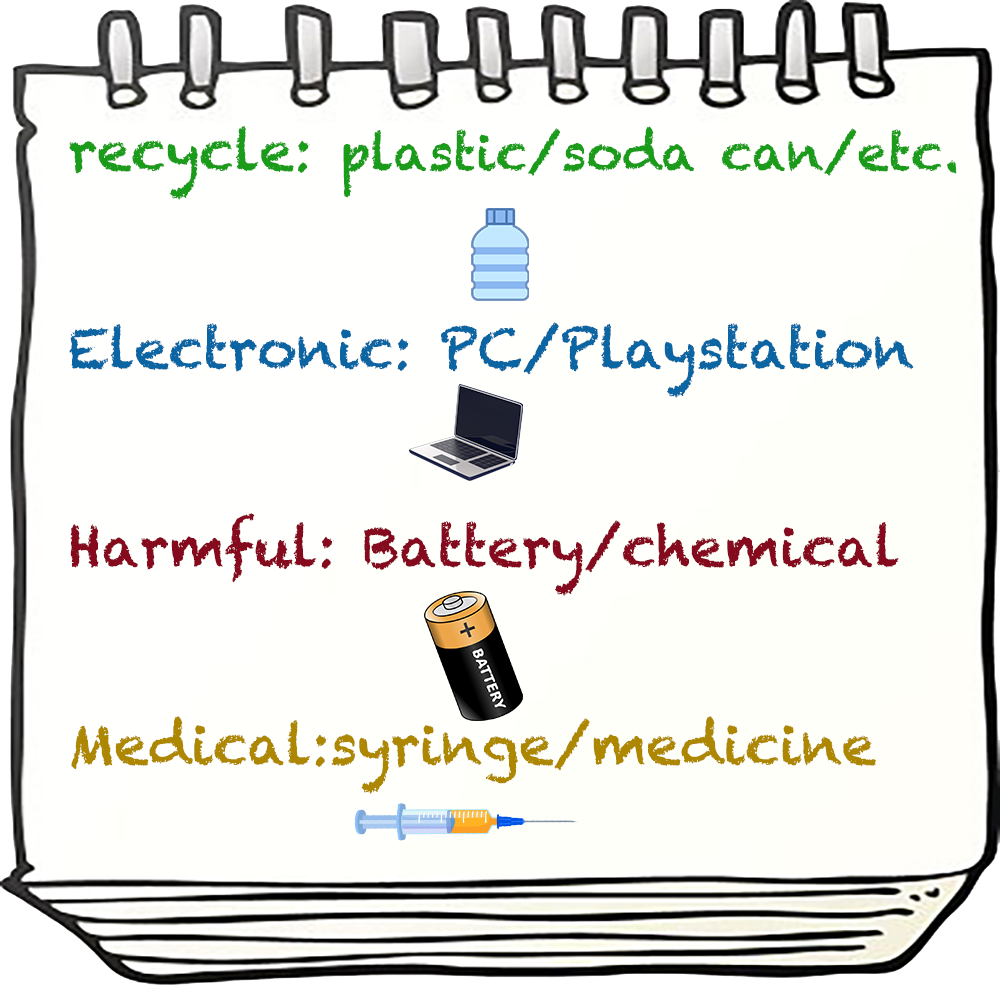
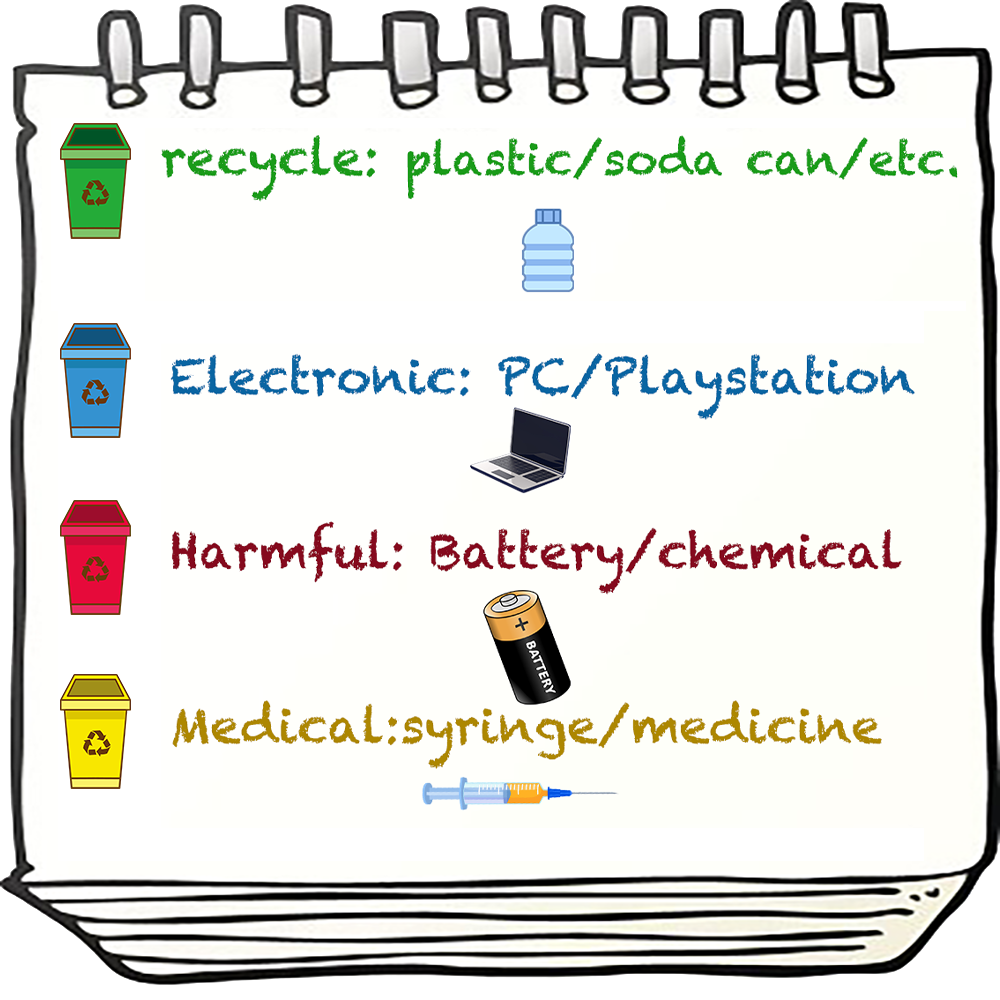
main game scene change, new bkgd image

Changed region(s): [[0.062, 0.124, 0.961, 0.496], [0.062, 0.496, 0.899, 0.837]]

diff --git a/src/scripts/scenes/gameScene.ts b/src/scripts/scenes/gameScene.ts
@@ -18,6 +18,7 @@ export default class gameScene extends Phaser.Scene {
   private done: any;
   private index: any;
   private dragObj: any;
+  private hint:any;
 
   constructor() {
     super({ key: 'MainScene' });
@@ -31,9 +32,11 @@ export default class gameScene extends Phaser.Scene {
     .setInteractive()
     .on('pointerdown', ()=>this.goHome());
     this.totorial_button.setScale(0.5);
+    
     this.done=false;
-    //Add instruction
-    this.add.text(500,50,"Drag trash to correct trash bin.",{fill:"#000000", fontSize:"16px"});
+    //Add hint
+    this.hint = this.add.image(500,50,"hint");
+    this.hint.setScale(0.7);
 
     //Make list of items for this level
     this.items = ["computer", "pbottle", "soda","battery"];
@@ -43,38 +46,38 @@ export default class gameScene extends Phaser.Scene {
     this.alltrash = [];
     
     //Make recycle
-    this.recycle=this.physics.add.image(100,800,"recycle");
+    this.recycle=this.physics.add.image(100,250,"recycle");
     this.recycle.setScale(0.2);
     //Make electronic
-    this.electronic = this.physics.add.image(350,800,"electronic");
+    this.electronic = this.physics.add.image(350,215,"electronic");
     this.electronic.setScale(0.2);
     //Make harmful
-    this.harmful = this.physics.add.image(600,800,"harmful");
+    this.harmful = this.physics.add.image(600,215,"harmful");
     this.harmful.setScale(0.2);
     //Make medical
-    this.medical = this.physics.add.image(850,800,"medical");
+    this.medical = this.physics.add.image(850,250,"medical");
     this.medical.setScale(0.2);
 
     //Make battery
-    this.battery=this.physics.add.image(200,260,"battery");
+    this.battery=this.physics.add.image(200,760,"battery");
     this.battery.setScale(0.2);
     this.battery.setInteractive();
     this.input.setDraggable(this.battery);
 
     //Make computer
-    this.computer=this.physics.add.image(320, 360, "computer");
+    this.computer=this.physics.add.image(320, 600, "computer");
     this.computer.setScale(0.2);
     this.computer.setInteractive();
     this.input.setDraggable(this.computer);
 
     //Make pbottle
-    this.pbottle=this.physics.add.image(800,360,"pbottle");
+    this.pbottle=this.physics.add.image(800,700,"pbottle");
     this.pbottle.setScale(0.1);
     this.pbottle.setInteractive();
     this.input.setDraggable(this.pbottle);
 
     //Make soda
-    this.soda=this.physics.add.image(600,300,"soda");
+    this.soda=this.physics.add.image(600,500,"soda");
     this.soda.setScale(0.05);
     this.soda.setInteractive();
     this.input.setDraggable(this.soda);

diff --git a/src/scripts/scenes/tutorial.ts b/src/scripts/scenes/tutorial.ts
@@ -1,19 +1,22 @@
 import ExampleObject from '../objects/exampleObject';
 
 export default class tutorial extends Phaser.Scene {
-    private playbutton: any;
+    
     private background: any;
-    private notepad: any;
-    private title: any;
-    private readytext: any;
-    private totorialset: any;
     private gametitle: any;
+    private instruction: any;
+    private notepad: any;
+    private playbutton: any;
+    private readytext: any;
+    private title: any;
+    private totorialset: any;
+
     constructor(){
         super({key: 'tutorial'});
     }
 
     create(){
-        this.background=this.add.image(0,0, "background");
+        this.background=this.add.image(0,0, "background-1");
         this.background.setScale(2);
 
         this.gametitle = this.add.image(500,50,"gametitle");
@@ -21,9 +24,12 @@ export default class tutorial extends Phaser.Scene {
 
         this.title = this.add.image(170,200,"t-title");
         this.title.setScale(0.8);
-
+        this.instruction = this.add.image(170,400,"instruction");
+        this.instruction.setScale(1.5);
+  
         this.notepad = this.add.image(700,400,"notepad");
         this.notepad.setScale(0.5);
+
         this.totorialset = this.add.image(500,780,"tutorialset");
         this.readytext = this.add.image(530,950,"readytext");
         this.playbutton=this.add.image(120,930,"play")
@@ -31,11 +37,6 @@ export default class tutorial extends Phaser.Scene {
          .on('pointerdown', ()=>this.goToGame());
         this.playbutton.setScale(0.45);
     }
-
-    update(){
-        
-    }
-
     goToGame(){
         this.scene.start('MainScene');
     }

diff --git a/src/scripts/scenes/preloadScene.ts b/src/scripts/scenes/preloadScene.ts
@@ -7,6 +7,7 @@ export default class PreloadScene extends Phaser.Scene {
 
     this.load.image("partyButton", "assets/images/partyButton.png");
     this.load.image("background", "assets/images/background.png");
+    this.load.image("background-1", "assets/images/background-1.png");
     this.load.image("home","assets/images/home.png");
     this.load.image("electronic", "assets/images/electronic.png");
     this.load.image("medical", "assets/images/medical.png");
@@ -23,6 +24,8 @@ export default class PreloadScene extends Phaser.Scene {
     this.load.image("readytext","assets/images/readytext.png");
     this.load.image("tutorialset","assets/images/tutorialset.png");
     this.load.image("gametitle","assets/images/gametitle.png");
+    this.load.image("instruction","assets/images/instruction.png");
+    this.load.image("hint","assets/images/hint.png");
   }
 
   create() {

diff --git a/src/assets/citations.md b/src/assets/citations.md
@@ -17,3 +17,5 @@ thumbsup:
 https://www.google.com/search?q=thumbs+up+cartoon&tbm=isch&source=iu&ictx=1&fir=KoxHnrvOraF6fM%253A%252CX2ff1eEhNdlVSM%252C_&vet=1&usg=AI4_-kR_nvSfHvHvXi56DMJN5-8KqtbR1A&sa=X&ved=2ahUKEwi5sMiRmo7pAhXtGTQIHdNRAGYQ9QEwAHoECAoQMA#imgrc=2RCnnenB_wdpSM&imgdii=beOMhDHceaSoHM
 gametitle:
 https://www6.flamingtext.com/net-fu/jobs/26645301503286310.html
+convavey belt:
+https://www.google.com/search?q=conveyor+belt+cartoon&tbm=isch&ved=2ahUKEwiJz82nqo7pAhWNADQIHYC2A4UQ2-cCegQIABAA&oq=conveyor+belt+cartoon&gs_lcp=CgNpbWcQAzICCAAyAggAMgIIADICCAAyAggAMgYIABAFEB4yBggAEAUQHjIGCAAQBRAeMgYIABAFEB4yBggAEAUQHlC4fliJhQFgs4YBaABwAHgAgAGzAogB6wqSAQUyLTQuMZgBAKABAaoBC2d3cy13aXotaW1n&sclient=img&ei=MNCpXon3C42B0PEPgO2OqAg&bih=734&biw=923&hl=en#imgrc=iZmcAeZNPzfN4M&imgdii=p2ODxGhWFDNZwM
